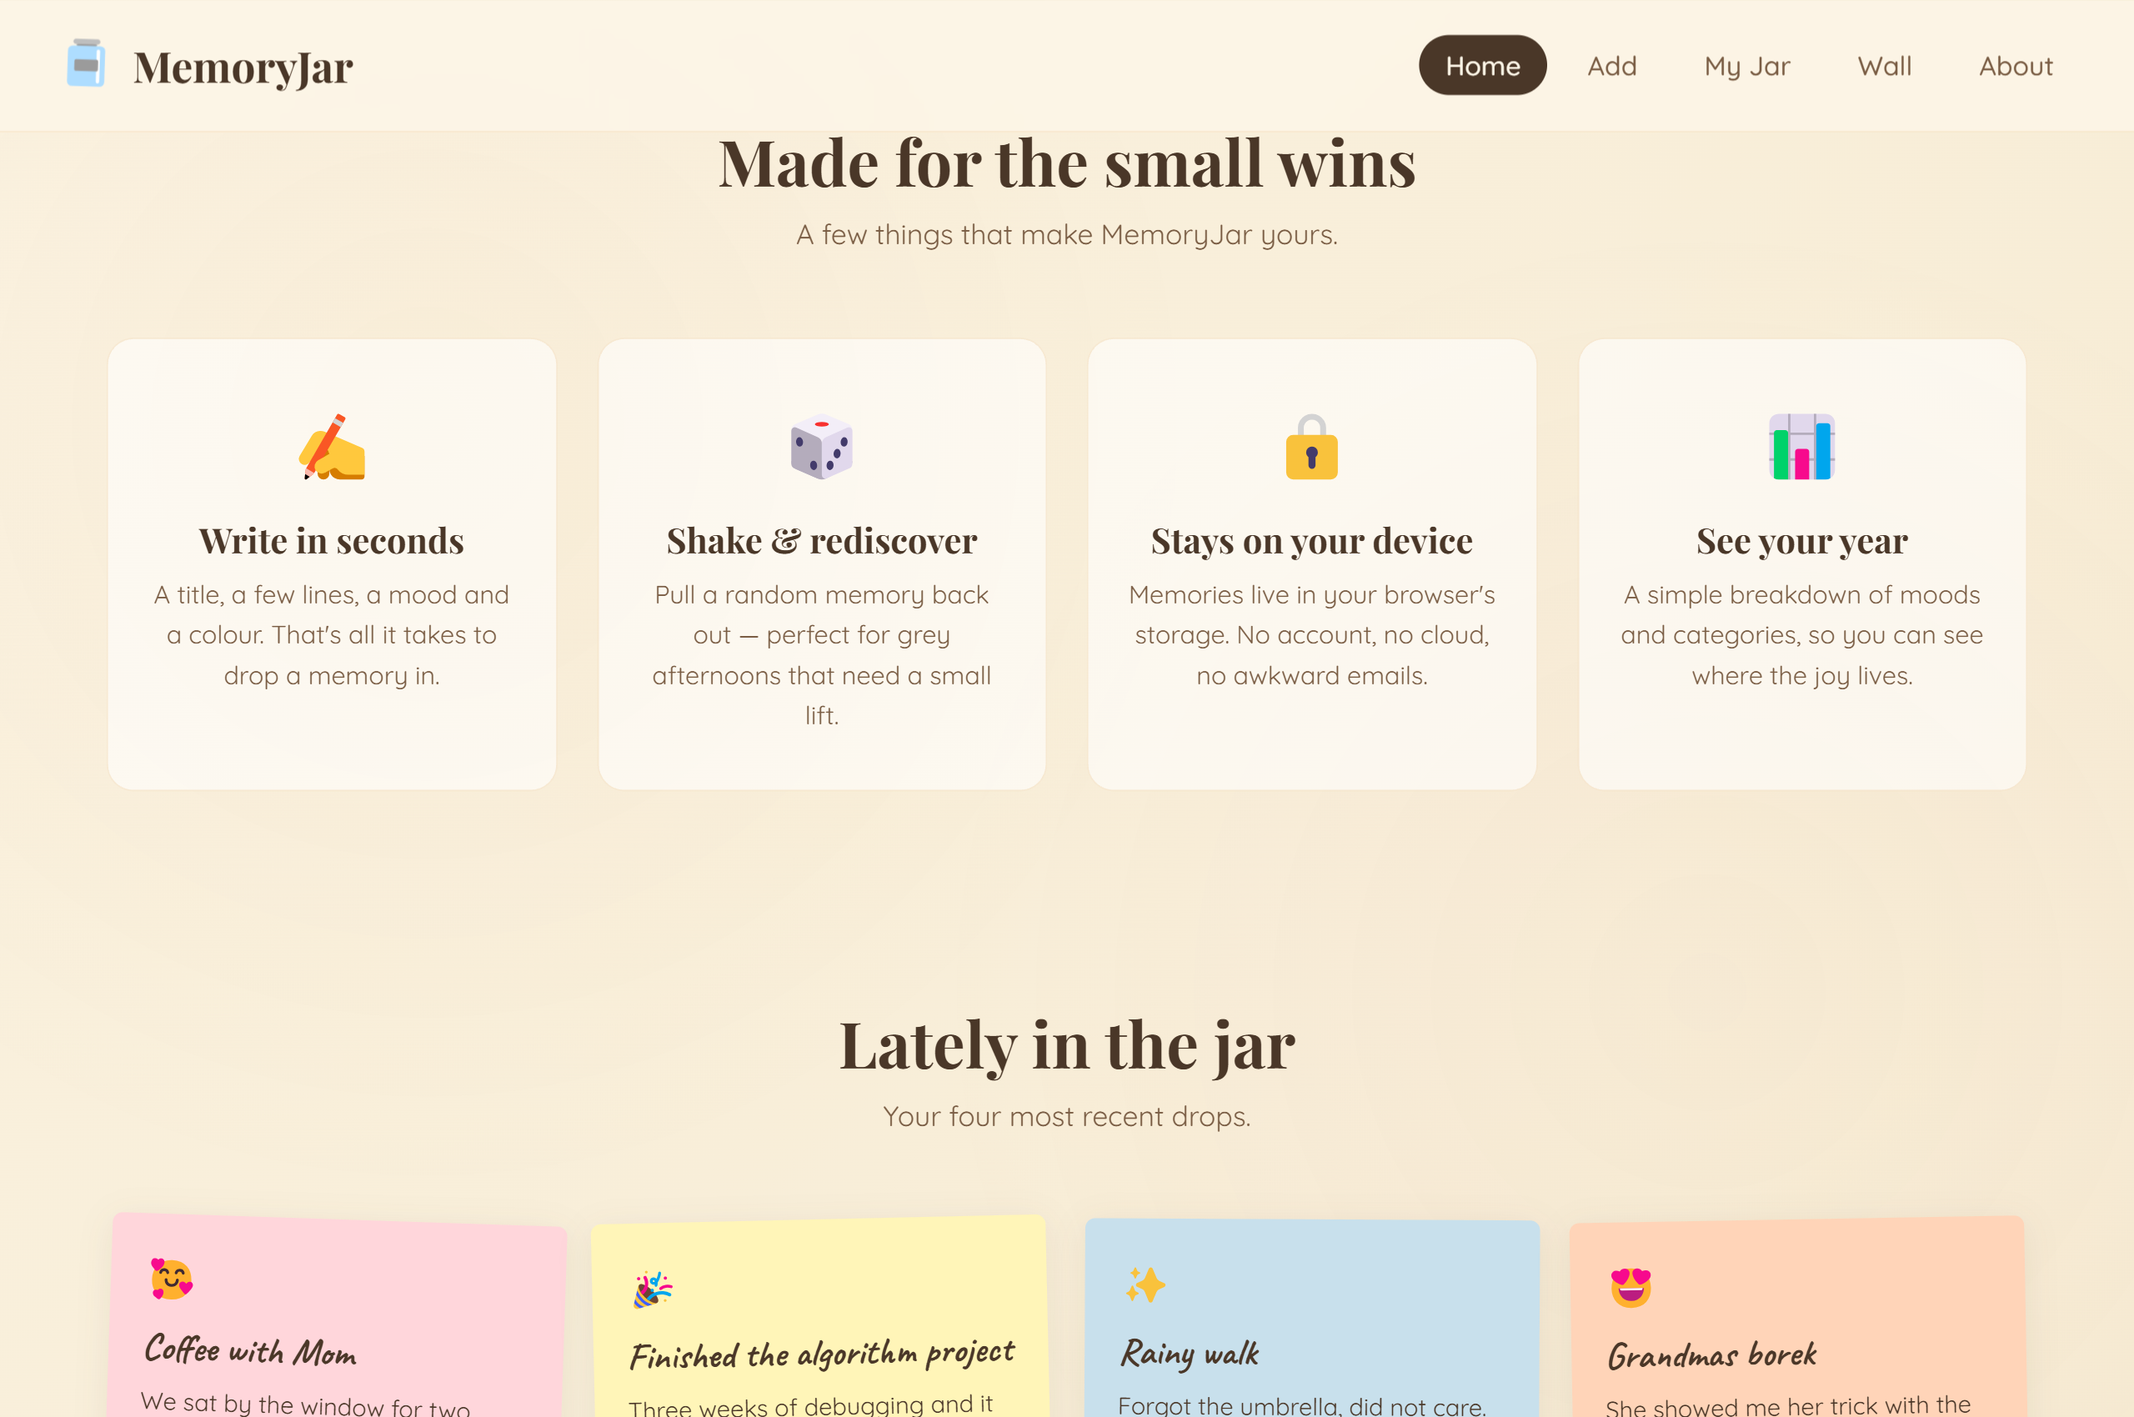
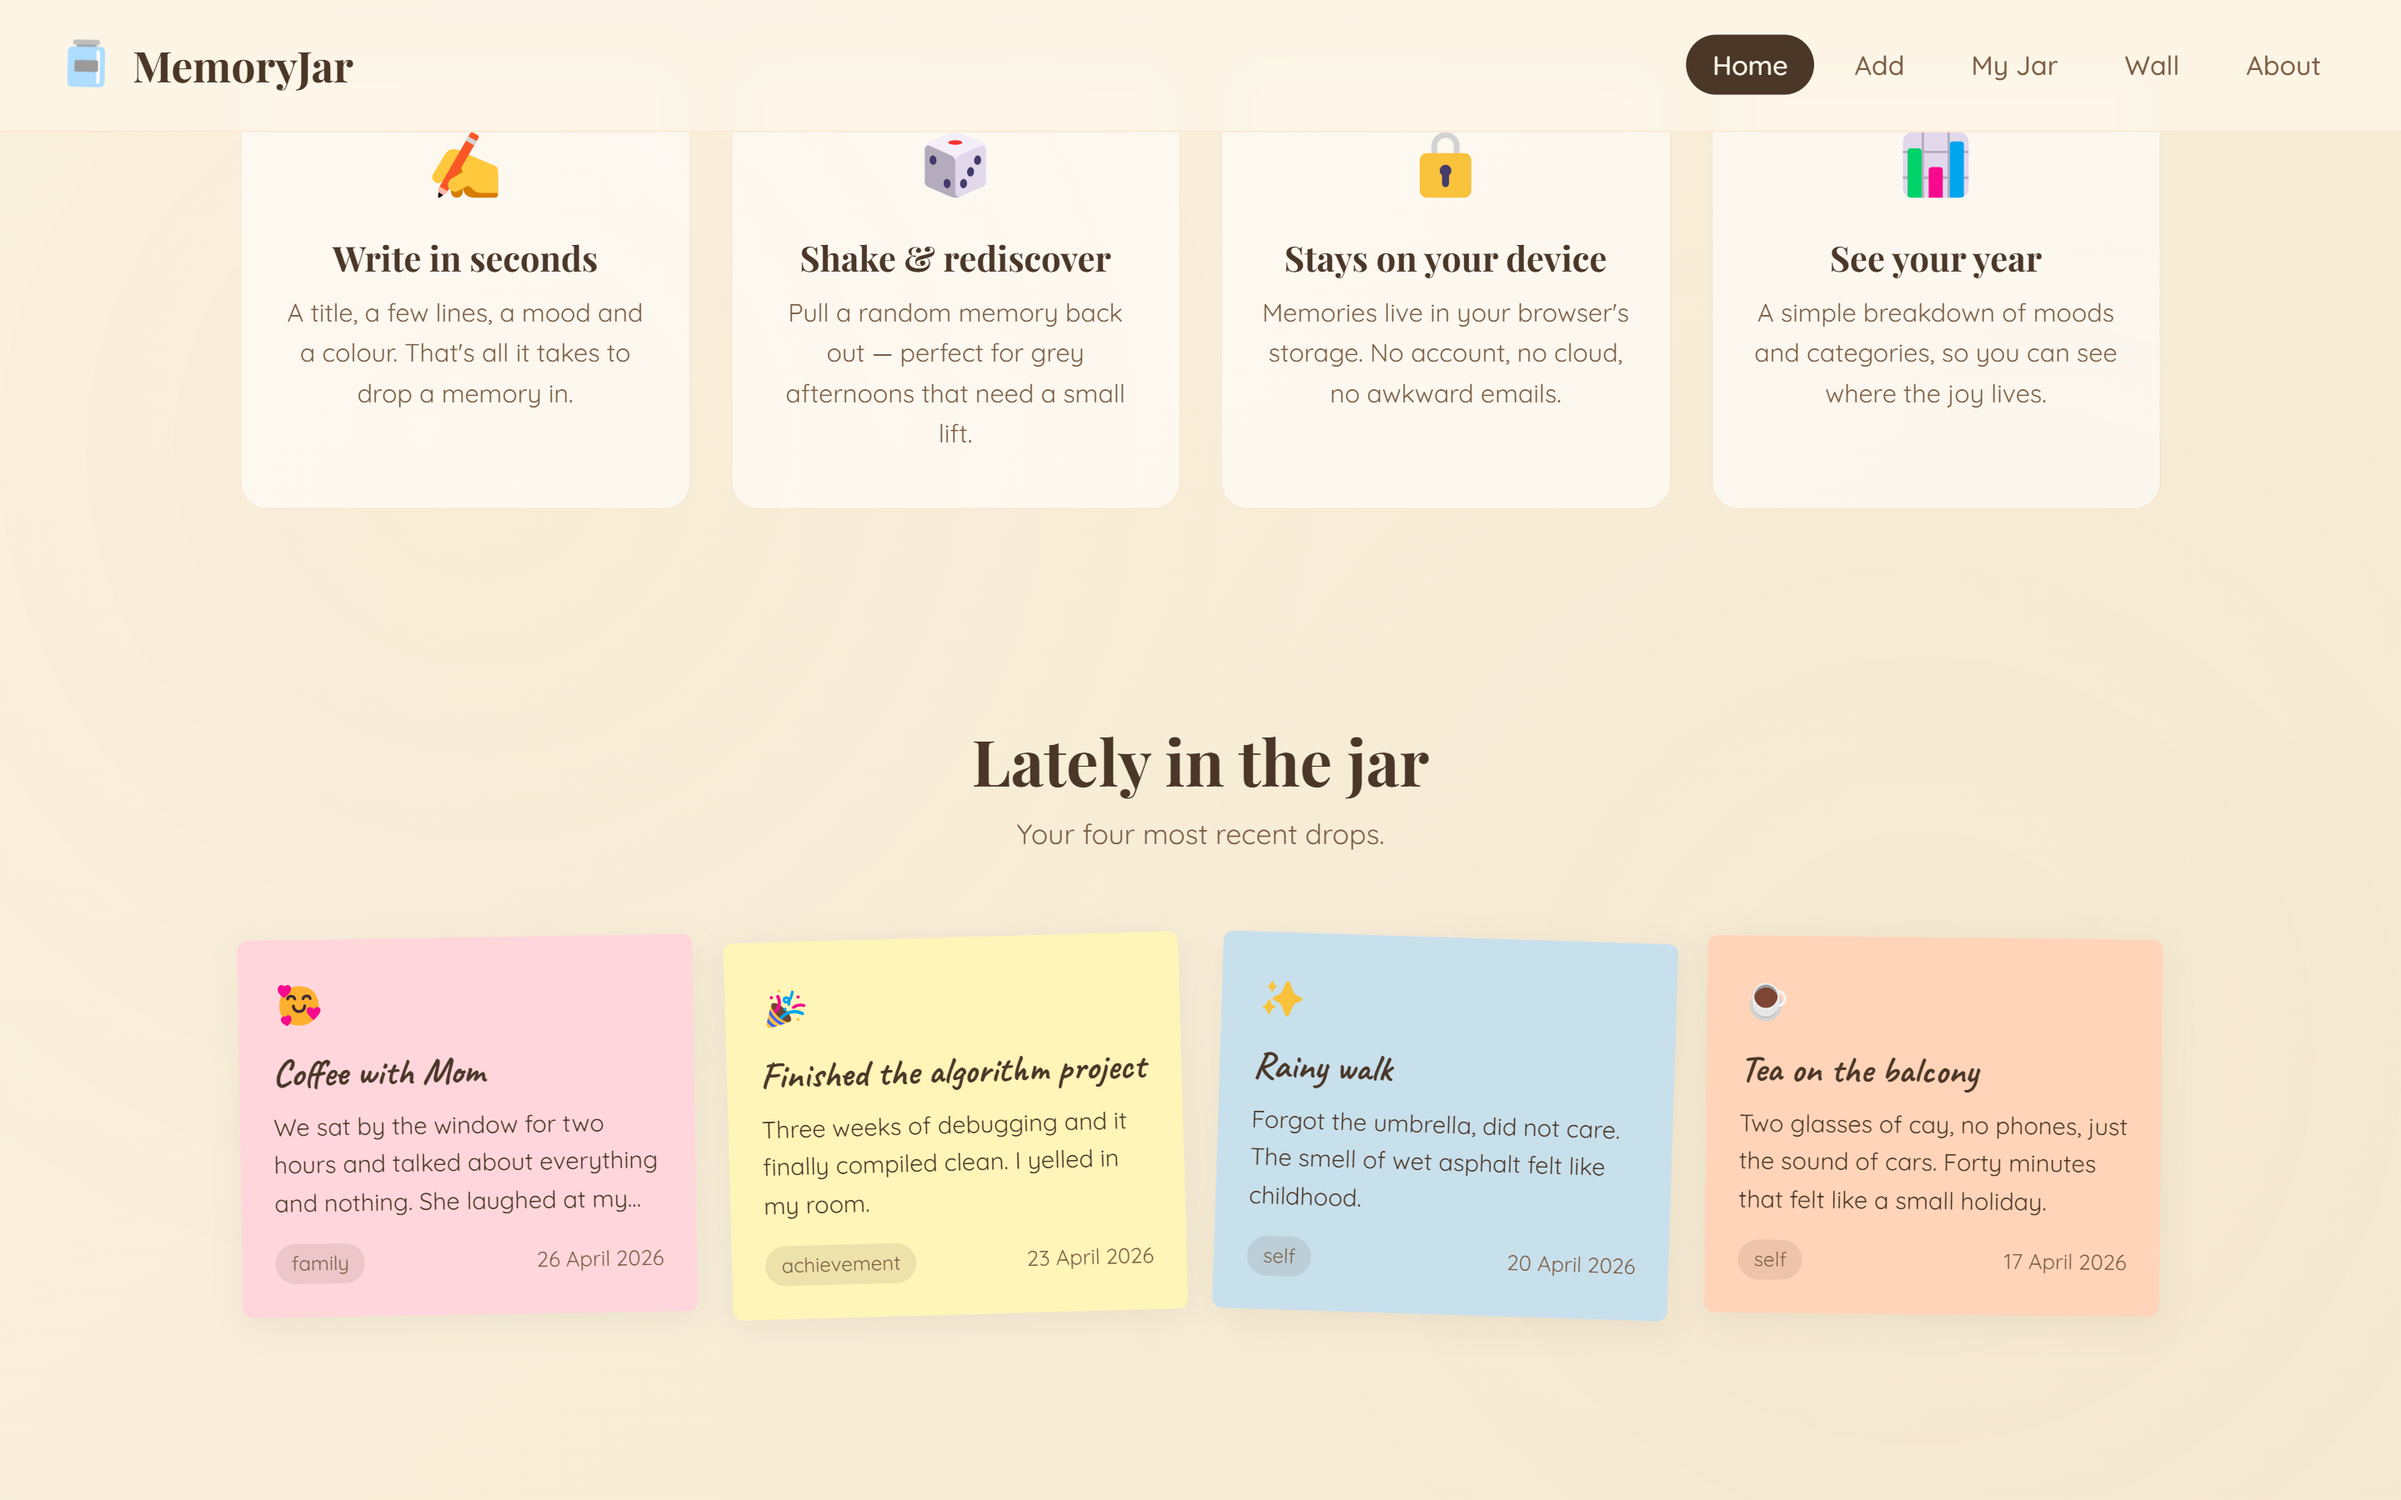
feat: paper-look folded notes inside the jar and richer demo seed

diff --git a/js/storage.js b/js/storage.js
@@ -93,11 +93,19 @@ export function seedIfEmpty() {
   if (getAll().length > 0) return;
   const samples = [
     { title: 'Coffee with Mom', body: 'We sat by the window for two hours and talked about everything and nothing. She laughed at my jokes for once.', mood: '🥰', category: 'family', color: 'pink', date: daysAgo(2) },
-    { title: 'Finished the algorithm project', body: 'Three weeks of debugging and it finally compiled clean. I yelled in my room.', mood: '🎉', category: 'achievement', color: 'yellow', date: daysAgo(7) },
-    { title: 'Rainy walk', body: 'Forgot the umbrella, did not care. The smell of wet asphalt felt like childhood.', mood: '✨', category: 'self', color: 'blue', date: daysAgo(12) },
-    { title: 'Grandmas borek', body: 'She showed me her trick with the yufka. I almost cried at the table.', mood: '😍', category: 'food', color: 'orange', date: daysAgo(20) },
-    { title: 'Late night with Ali', body: 'We talked about our plans for the summer until 4am. I forgot how good a real conversation feels.', mood: '💖', category: 'friends', color: 'purple', date: daysAgo(34) },
-    { title: 'First time on a ferry alone', body: 'Stood at the back and watched Istanbul shrink. Felt brave for no reason.', mood: '🌟', category: 'travel', color: 'green', date: daysAgo(60) }
+    { title: 'Finished the algorithm project', body: 'Three weeks of debugging and it finally compiled clean. I yelled in my room.', mood: '🎉', category: 'achievement', color: 'yellow', date: daysAgo(5) },
+    { title: 'Rainy walk', body: 'Forgot the umbrella, did not care. The smell of wet asphalt felt like childhood.', mood: '✨', category: 'self', color: 'blue', date: daysAgo(8) },
+    { title: 'Tea on the balcony', body: 'Two glasses of cay, no phones, just the sound of cars. Forty minutes that felt like a small holiday.', mood: '☕', category: 'self', color: 'orange', date: daysAgo(11) },
+    { title: 'Grandmas borek', body: 'She showed me her trick with the yufka. I almost cried at the table.', mood: '😍', category: 'food', color: 'orange', date: daysAgo(15) },
+    { title: 'Stray cat in the courtyard', body: 'It walked up like it owned the place. I named it Pamuk and gave it half my simit.', mood: '😊', category: 'random', color: 'pink', date: daysAgo(19) },
+    { title: 'Got an A on the project', body: 'I read the email three times to make sure. Walked around the kitchen for a while just smiling.', mood: '🎉', category: 'achievement', color: 'yellow', date: daysAgo(24) },
+    { title: 'Late night with Ali', body: 'We talked about our plans for the summer until 4am. I forgot how good a real conversation feels.', mood: '💖', category: 'friends', color: 'purple', date: daysAgo(31) },
+    { title: 'Bookshop in Kadikoy', body: 'Found a used copy of a book I had been looking for. The owner gave me a 20 lira discount for no reason.', mood: '✨', category: 'random', color: 'green', date: daysAgo(38) },
+    { title: 'Sunday breakfast', body: 'Eggs, olives, white cheese, fresh bread. The whole family at the table. Nobody was on their phone.', mood: '🥰', category: 'family', color: 'yellow', date: daysAgo(45) },
+    { title: 'First time on a ferry alone', body: 'Stood at the back and watched Istanbul shrink. Felt brave for no reason.', mood: '🌟', category: 'travel', color: 'blue', date: daysAgo(52) },
+    { title: 'Helped a tourist with directions', body: 'They thanked me four times. I have been smiling about it all afternoon.', mood: '😊', category: 'random', color: 'green', date: daysAgo(58) },
+    { title: 'Snow on the way home', body: 'Stepped out of the metro and the whole street was white. People were laughing in the cold.', mood: '✨', category: 'self', color: 'blue', date: daysAgo(67) },
+    { title: 'Cousins wedding', body: 'Danced for three hours. Auntie Nilgun cried twice. I lost a button on my shirt and did not care.', mood: '🎉', category: 'family', color: 'purple', date: daysAgo(82) }
   ];
   samples.forEach(add);
 }

diff --git a/css/style.css b/css/style.css
@@ -362,11 +362,39 @@ a:hover { color: var(--walnut); }
 }
 
 .jar__paper {
-  width: 30px;
-  height: 24px;
-  border-radius: 3px;
-  box-shadow: 0 2px 4px rgba(74, 55, 40, 0.15);
+  width: 32px;
+  height: 26px;
+  border-radius: 2px 2px 3px 2px;
+  position: relative;
+  overflow: hidden;
+  box-shadow:
+    0 1px 2px rgba(74, 55, 40, 0.18),
+    inset 0 -2px 3px rgba(74, 55, 40, 0.06);
   animation: paper-float 4s ease-in-out infinite;
+}
+
+.jar__paper::before {
+  content: '';
+  position: absolute;
+  inset: 4px 5px 7px 5px;
+  background-image:
+    linear-gradient(rgba(74, 55, 40, 0.3) 1px, transparent 1px),
+    linear-gradient(rgba(74, 55, 40, 0.3) 1px, transparent 1px);
+  background-size: 100% 100%, 70% 100%;
+  background-repeat: no-repeat;
+  background-position: 0 25%, 0 75%;
+}
+
+.jar__paper::after {
+  content: '';
+  position: absolute;
+  top: 0;
+  right: 0;
+  width: 0;
+  height: 0;
+  border-style: solid;
+  border-width: 0 5px 5px 0;
+  border-color: transparent rgba(74, 55, 40, 0.18) transparent transparent;
 }
 
 .jar__paper:nth-child(odd) { animation-delay: -1s; }
@@ -735,37 +763,62 @@ a:hover { color: var(--walnut); }
 .jar-papers-grid {
   position: absolute;
   inset: 0;
-  padding: 30px 25px;
+  padding: 40px 30px 50px;
   display: grid;
-  grid-template-columns: repeat(5, 1fr);
-  gap: 6px;
+  grid-template-columns: repeat(6, 1fr);
+  gap: 8px 6px;
   align-content: end;
 }
 
 .jar-paper-mini {
-  aspect-ratio: 1.2;
-  border-radius: 4px;
-  box-shadow: 0 2px 4px rgba(74, 55, 40, 0.2);
+  aspect-ratio: 1.05;
+  border-radius: 2px 2px 4px 2px;
   cursor: pointer;
   transition: transform 0.2s;
   animation: paper-float 4s ease-in-out infinite;
   position: relative;
   overflow: hidden;
+  box-shadow:
+    0 1px 2px rgba(74, 55, 40, 0.15),
+    0 3px 6px rgba(74, 55, 40, 0.10),
+    inset 0 -3px 5px rgba(74, 55, 40, 0.06);
 }
 
+/* Faux handwriting lines (3 short lines on each note) */
+.jar-paper-mini::before {
+  content: '';
+  position: absolute;
+  inset: 18% 18% 28% 18%;
+  background-image:
+    linear-gradient(rgba(74, 55, 40, 0.32) 1.5px, transparent 1.5px),
+    linear-gradient(rgba(74, 55, 40, 0.32) 1.5px, transparent 1.5px),
+    linear-gradient(rgba(74, 55, 40, 0.32) 1.5px, transparent 1.5px);
+  background-size: 100% 100%, 75% 100%, 60% 100%;
+  background-repeat: no-repeat;
+  background-position: 0 0%, 0 50%, 0 100%;
+  border-radius: 1px;
+}
+
+/* Folded corner */
 .jar-paper-mini::after {
   content: '';
   position: absolute;
-  inset: 2px;
-  background-image:
-    linear-gradient(transparent 60%, rgba(74,55,40,0.1) 60%, rgba(74,55,40,0.1) 65%, transparent 65%),
-    linear-gradient(transparent 75%, rgba(74,55,40,0.1) 75%, rgba(74,55,40,0.1) 80%, transparent 80%);
-  border-radius: 2px;
+  top: 0;
+  right: 0;
+  width: 0;
+  height: 0;
+  border-style: solid;
+  border-width: 0 8px 8px 0;
+  border-color: transparent rgba(74, 55, 40, 0.18) transparent transparent;
+  filter: drop-shadow(-1px 1px 1px rgba(0, 0, 0, 0.06));
 }
 
 .jar-paper-mini:hover {
-  transform: scale(1.15);
+  transform: scale(1.18) translateY(-2px);
   z-index: 5;
+  box-shadow:
+    0 4px 8px rgba(74, 55, 40, 0.25),
+    0 8px 16px rgba(74, 55, 40, 0.15);
 }
 
 .jar-empty-state {

diff --git a/screenshots/capture.js b/screenshots/capture.js
@@ -11,8 +11,8 @@ const base = process.env.BASE_URL || 'http://localhost:5174';
 
 const shots = [
   { url: '/index.html',   file: '01-home-hero.png',     scrollTo: 0 },
-  { url: '/index.html',   file: '02-home-stats.png',    scrollTo: 700 },
-  { url: '/index.html',   file: '03-home-features.png', scrollTo: 1400 },
+  { url: '/index.html',   file: '02-home-stats.png',    scrollTo: 600 },
+  { url: '/index.html',   file: '03-home-features.png', scrollTo: 1300 },
   { url: '/add.html',     file: '04-add-form.png',      scrollTo: 0 },
   { url: '/add.html',     file: '05-add-form-bottom.png', scrollTo: 600 },
   { url: '/jar.html',     file: '06-jar-page.png',      scrollTo: 0 },
@@ -25,33 +25,43 @@ const browser = await puppeteer.launch({
   args: ['--no-sandbox']
 });
 const page = await browser.newPage();
-await page.setViewport({ width: 1280, height: 850, deviceScaleFactor: 2 });
+await page.setViewport({ width: 1440, height: 900, deviceScaleFactor: 2 });
 
 await mkdir(outDir, { recursive: true });
+
+// Clear localStorage so the seed runs fresh on each capture
+await page.goto(base + '/index.html', { waitUntil: 'networkidle0' });
+await page.evaluate(() => localStorage.clear());
 
 for (const s of shots) {
   console.log(`Capturing ${s.file}…`);
   await page.goto(base + s.url, { waitUntil: 'networkidle0' });
-  await new Promise(r => setTimeout(r, 600));
+  await new Promise(r => setTimeout(r, 700));
   if (s.scrollTo) await page.evaluate((y) => window.scrollTo(0, y), s.scrollTo);
-  await new Promise(r => setTimeout(r, 400));
+  await new Promise(r => setTimeout(r, 500));
   await page.screenshot({ path: resolve(outDir, s.file), type: 'png' });
 }
 
 // Modal screenshot — open a memory and capture
 console.log('Capturing 10-jar-modal.png…');
 await page.goto(base + '/jar.html', { waitUntil: 'networkidle0' });
-await new Promise(r => setTimeout(r, 500));
+await new Promise(r => setTimeout(r, 600));
 await page.click('#shake-btn');
 await new Promise(r => setTimeout(r, 900));
 await page.screenshot({ path: resolve(outDir, '10-jar-modal.png'), type: 'png' });
 
-// Mobile view
-await page.setViewport({ width: 390, height: 844, deviceScaleFactor: 2 });
+// Mobile view — full page with the jar visible
+await page.setViewport({ width: 390, height: 1500, deviceScaleFactor: 2 });
 console.log('Capturing 11-mobile-home.png…');
 await page.goto(base + '/index.html', { waitUntil: 'networkidle0' });
-await new Promise(r => setTimeout(r, 500));
-await page.screenshot({ path: resolve(outDir, '11-mobile-home.png'), type: 'png' });
+await new Promise(r => setTimeout(r, 700));
+await page.screenshot({ path: resolve(outDir, '11-mobile-home.png'), type: 'png', fullPage: false });
+
+// Mobile jar page
+console.log('Capturing 12-mobile-jar.png…');
+await page.goto(base + '/jar.html', { waitUntil: 'networkidle0' });
+await new Promise(r => setTimeout(r, 700));
+await page.screenshot({ path: resolve(outDir, '12-mobile-jar.png'), type: 'png', fullPage: false });
 
 await browser.close();
 console.log('All screenshots saved to', outDir);
